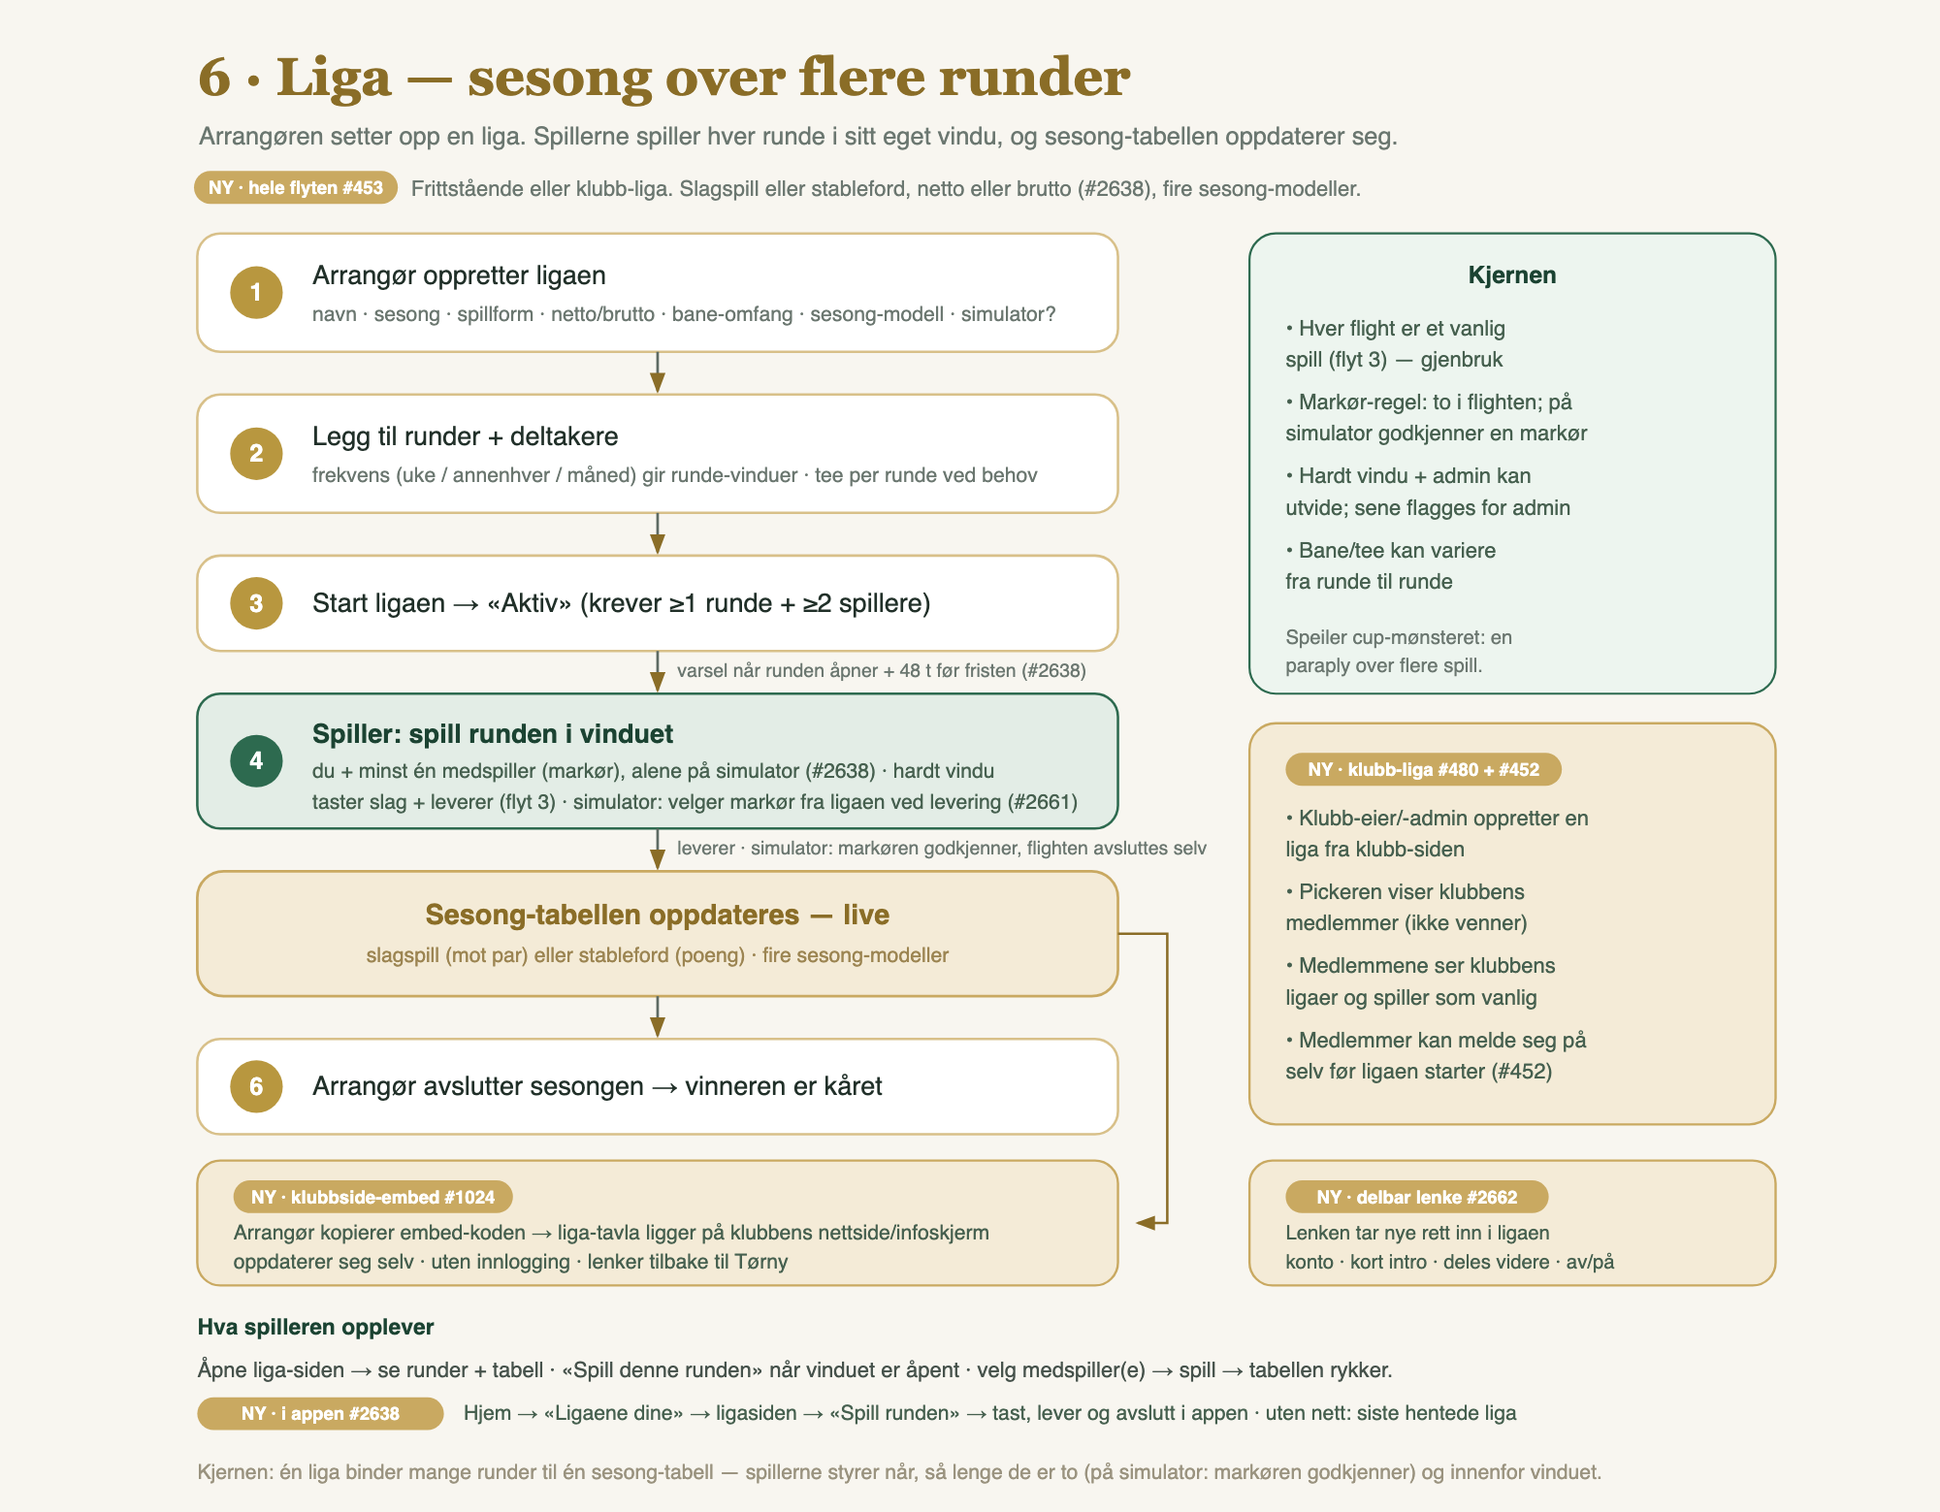
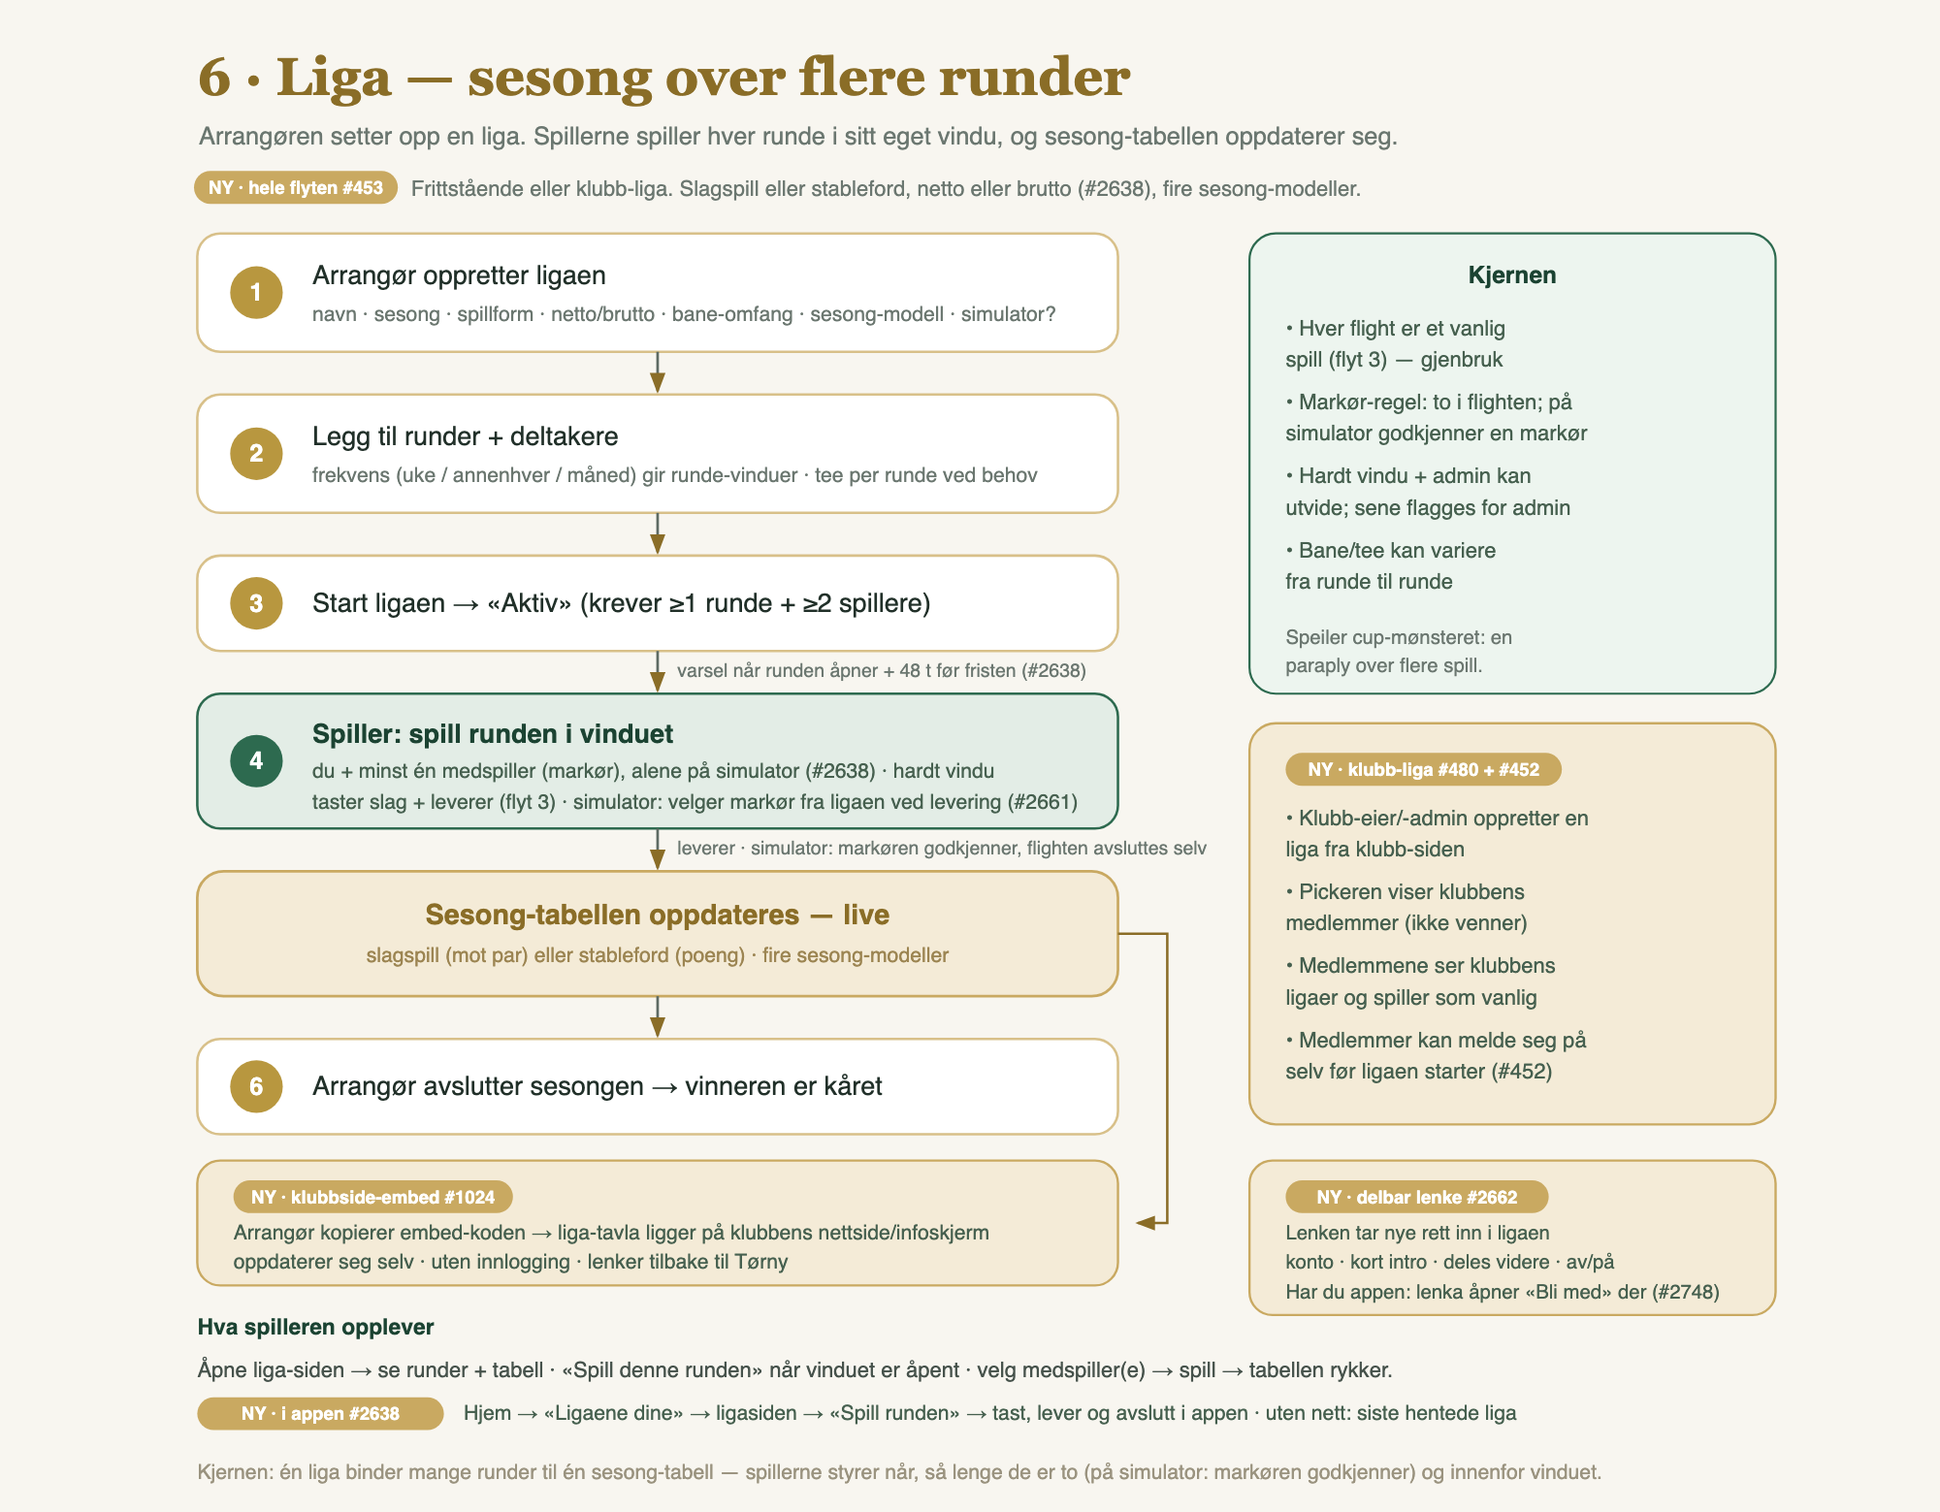
docs(flows): the league link can open the app
User flows, the release runbooks and flow 6 say what PR 1 of #2748 does: which
paths and hosts the store build claims, that `www` must answer 200 before a build
goes out, and that iPhone stays on the web page until AASA lets the path through.

Refs #2748

Changed region(s): [[0.62, 0.8313, 0.93, 0.8929]]

diff --git a/docs/native/app-store-release.md b/docs/native/app-store-release.md
@@ -20,7 +20,7 @@ Android-bygget (signert AAB, bevis og spike-funn): `play-store-release.md`.
 | Supabase | staging, fra `native/app/.env.local` | prod, fra repo-rotas `.env.local` — kun via skriptet |
 | Web | `http://localhost:<port>` under staging-verify | `https://tornygolf.no`, nøyaktig |
 | `ITSAppUsesNonExemptEncryption` | — | `false` (som skallet) |
-| Associated domains | — | `applinks:tornygolf.no`, men AASA-fila slipper bare venne-lenka gjennom (#2627). Alle andre lenker åpnes i Safari, der sesjonen finnes |
+| Associated domains | — | `applinks:tornygolf.no` og `applinks:www.tornygolf.no`, men AASA-fila slipper bare venne-lenka gjennom (#2627). Alle andre lenker åpnes i Safari, der sesjonen finnes |
 | På telefonen | står ved siden av butikk-appen | erstatter skallet (samme id) |
 
 `native/app/app.config.ts` legger varianten over `app.json`; `app.json` er dev-fasiten og
@@ -156,7 +156,7 @@ stopper opplastingen.
 | | **FORBY** verdier fra appens egne `.env`-filer (#2208): hver `EXPO_PUBLIC_*`-verdi i `native/app/.env*` (eller i mappa `TORNY_APP_ENV_DIR` peker på) må ha 0 treff i bundelen. Verdier beviset krever (prod-adressen, web-adressen, anon-nøkkelen fra miljøet) og verdier under 12 tegn hoppes over med en linje om det. Bare fil, nøkkel, lengde og antall treff skrives ut, aldri verdien. Uten `.env`-filer blir det én linje om det, ingen FAIL. |
 | | `http://`: hvert treff må stå på lista over kjente bibliotek-strenger i skriptet (zod sin JSON-Schema-URL, Metros `localhost:8081/` (React Natives `getDevServer`-fallback; det som følger er nabo-strengen), SVG-navnerommet `www.w3.org/2000/svg` fra qrcode, auth-js sin `localhost:9999`, phoenix sin bare `http://`). `localhost` har sin egen regel (raden over). Alt annet → FAIL med kontekst. Phoenix-literalen har ingen vert selv, så det som følger i den pakkede tabellen er nabo-strengen; den godtas når halen ikke er en vert (et ord uten punktum, kolon eller skråstrek, eller en annen URL-literal). |
 | `Info.plist` | `CFBundleIdentifier = no.tornygolf.app`, versjon og build satt, `ITSAppUsesNonExemptEncryption = false`, og norsk språk: `CFBundleDevelopmentRegion = nb` og `nb` i `CFBundleLocalizations` (#2561). |
-| Entitlements (`codesign -d --entitlements`) | **KREV** `aps-environment` = `development` eller `production`, fordi appen har varsler på iOS (#2561). Verdien skrives i bevis-fila. Arkivet kreves ikke å ha `production`: pluginen skriver `development` når `mode` ikke er satt, og beviset kjører på arkivet før eksporten. Om det opplastede bygget har `production`, vises i en lokal eksport (se «Varsler (push) fra appen»). **KREV** `com.apple.developer.associated-domains` = nøyaktig `applinks:tornygolf.no` (venne-lenka, #2627, se «Venne-lenka åpner appen»). Et annet domene, flere verdier eller ingen verdi gir FAIL. Reglene står i `entitlements-proof.sh` og testes uten arkiv (`entitlements-proof.test.js`). |
+| Entitlements (`codesign -d --entitlements`) | **KREV** `aps-environment` = `development` eller `production`, fordi appen har varsler på iOS (#2561). Verdien skrives i bevis-fila. Arkivet kreves ikke å ha `production`: pluginen skriver `development` når `mode` ikke er satt, og beviset kjører på arkivet før eksporten. Om det opplastede bygget har `production`, vises i en lokal eksport (se «Varsler (push) fra appen»). **KREV** `com.apple.developer.associated-domains` = nøyaktig `applinks:tornygolf.no` og `applinks:www.tornygolf.no` (#2627, #2748, se «Venne-lenka åpner appen»). Et annet domene, flere verdier, én av dem alene eller ingen verdi gir FAIL. Reglene står i `entitlements-proof.sh` og testes uten arkiv (`entitlements-proof.test.js`). |
 | Personvern (`Info.plist`, `PrivacyInfo.xcprivacy`) | **KREV** `NSPhotoLibraryAddUsageDescription` i Info.plist (uten teksten skjuler iOS lagre-handlingen i delearket; observert i simulatoren, ingen krasj), og `NSPrivacyAccessedAPICategoryDiskSpace` med grunnkode i app-manifestet når binærene importerer disk-API-er: `statfs`/`fstatfs`, `statvfs`, `getattrlist`-familien, `NSFileSystemFreeSize`/`NSFileSystemSize` og `NSURLVolume*Capacity*` (#2561). Kallerne i dag er SQLite i `expo-sqlite` (`statfs`/`fstatfs` når databasen åpnes) og ExpoFileSystem (ledig plass). Apples required-reason-krav gjelder ([Describing use of required reason API](https://developer.apple.com/documentation/bundleresources/describing-use-of-required-reason-api)), og ITMS-91053 kan komme som e-post etter opplasting; 1.1.0 (3) og 1.2.0 (5) kom gjennom uten, så regelen er forebygging. Alle binærene skannes (hovedfila og hvert rammeverk, navnet fra rammeverkets egen Info.plist); FAIL gir en binær som mangler, et rammeverk uten `CFBundleExecutable`, en `nm -u` som feiler og en tom `nm -u`-utskrift, og en skannefeil gjør DiskSpace påkrevd. Hvor mange binærer som ble skannet, står i PASS-linja. Begge nøklene settes i `app.json` (`ios.infoPlist`, `ios.privacyManifests`). Grunnkoden er `E174.1`, nærmeste godkjente grunn. Upstream `expo-file-system` oppgir både `E174.1` og `85F4.1`; appen tar bare `E174.1` fordi den ikke viser diskplass til brukeren. Expo skriver bare DiskSpace; FileTimestamp, UserDefaults og SystemBootTime kommer fra React Natives `pod install`-aggregering, styrt av `apple.privacyManifestAggregationEnabled` i Podfile.properties.json, som aldri må settes til `false`. Samme rad krever `CFBundleDevelopmentRegion` = `nb` og `nb` i `CFBundleLocalizations` (`app.json`): uten det står Info.plist på `en`, og delearket og tekstfeltene viser engelske systemtekster. Reglene står i `privacy-proof.sh` og testes uten arkiv (`privacy-proof.test.js`). |
 | App-ikonet (#1975) | **Kilden:** `native/app/assets/icon.png` må ha samme sha256 som `native/assets/appstore-1024.png`, og aldri Expo-malens hash (den nevnes ved navn i FAIL-en). **Arkivet:** `Assets.car` må ha `App-Icon-1024x1024@1x.png`, og `.app`-en `AppIcon60x60@2x.png`. To regler fordi `Assets.car` er kompilert — kildens byte finnes ikke igjen der, så arkiv-regelen beviser bare at *et* ikon ble kompilert inn. **`--upload-only` leser dagens kilde**, ikke den arkivet ble bygget fra; i den vanlige kjeden (prebuild → archive → bevis) henger de sammen. |
 
@@ -400,8 +400,9 @@ Fra #2627 åpner QR-koden på bag-taggen og «Del lenken din» (`https://tornygo
 appen på «Bli venn med …» når appen er installert. Alle andre lenker til tornygolf.no åpnes
 fortsatt i Safari, fordi appen ikke kan bære en nett-sesjon fra en lenke.
 
-- **Butikkvarianten** claimer domenet: `ios.associatedDomains: ['applinks:tornygolf.no']` i
-  `app.config.ts`. Dev-varianten har ingen associated domains. Der bevises skjermen med appens
+- **Butikkvarianten** claimer domenene: `ios.associatedDomains` har `applinks:tornygolf.no` og
+  `applinks:www.tornygolf.no` i `app.config.ts` (#2748: `www` er for knappen «Åpne i appen»).
+  Dev-varianten har ingen associated domains. Der bevises skjermen med appens
   eget skjema: `xcrun simctl openurl booted "no.tornygolf.dev://venner/legg-til/<kode>"`.
 - **AASA-fila** på nettet (`app/.well-known/apple-app-site-association/route.ts`) bestemmer
   stiene: bare `/venner/legg-til/*` og `/en/venner/legg-til/*`. Den er det som holder alle andre
@@ -412,7 +413,7 @@ fortsatt i Safari, fordi appen ikke kan bære en nett-sesjon fra en lenke.
   `applinks:tornygolf.no`, så den står trolig på fra før. Automatisk signering slår den på selv
   ved arkivering når den mangler. Feiler arkiveringen med en melding om associated domains eller
   provisioning-profilen, er det denne avkrysningen.
-- **Beviset** krever nøyaktig `applinks:tornygolf.no` i arkivets entitlements (se tabellen
+- **Beviset** krever nøyaktig de to verdiene i arkivets entitlements (se tabellen
   over). Den ekte skanningen med kameraet prøves på en TestFlight-installasjon.
 
 ## Hva som ikke byttes

diff --git a/docs/native/play-store-release.md b/docs/native/play-store-release.md
@@ -98,7 +98,7 @@ slutten, så bevis-fila er ufullstendig.
 | Kilde | Regel |
 |---|---|
 | `base/assets/index.android.bundle` (Hermes) | Alle bundel-reglene fra iOS-beviset, fra samme fil (`bundle-proof.sh`): begge strengtabellene og æ/ø/å-vakta, prod-adressen og `https://tornygolf.no` kreves, staging-adressen, `localhost:3111` og LAN er forbudt, loopback (`127.0.0.1`, `[::1]`, `localhost`) er bare lov som supabase-js sin bare literal (høyst så mange som pakken forklarer, uten skjema eller port), anon-nøkkelen fra miljøet må finnes, ingen verdi fra appens `.env`-filer, og `http://` må stå på lista over kjente bibliotek-strenger (`localhost` har loopback-regelen). Begrunnelsen står i tabellen i `app-store-release.md`. |
-| Manifestet (`base/manifest/AndroidManifest.xml`, protobuf) | `aapt2` fra build-tools leser det etter at skriptet har pakket manifestet og `resources.pb` om til en proto-APK. Ingen bundletool. **KREV** pakke `no.tornygolf.app`, en versionCode (tallet skrives ut) og `targetSdkVersion` ≥ 36. **FORBY** `android:debuggable="true"`. App Links (#2627): et `autoVerify`-intent-filter for `tornygolf.no` er lov **bare** for venne-stiene (`pathPrefix` `/venner/legg-til/` og `/en/venner/legg-til/`), og begge må finnes. En annen sti, et filter uten sti, et underdomene eller en vert som er en ressursreferanse (`@string/…`, kan ikke leses her) gir FAIL. Fail-closed: bare en debuggable-verdi som er tydelig usann eller ikke satt, gir PASS, og et `autoVerify` som ikke er tydelig `false`, regnes som på. Det er motstykket til iOS-regelen om associated domains. App Links-regelen står i `applinks-proof.sh` og testes uten AAB (`applinks-proof.test.js`). |
+| Manifestet (`base/manifest/AndroidManifest.xml`, protobuf) | `aapt2` fra build-tools leser det etter at skriptet har pakket manifestet og `resources.pb` om til en proto-APK. Ingen bundletool. **KREV** pakke `no.tornygolf.app`, en versionCode (tallet skrives ut) og `targetSdkVersion` ≥ 36. **FORBY** `android:debuggable="true"`. App Links (#2627, #2748): et `autoVerify`-intent-filter for `tornygolf.no` og `www.tornygolf.no` er lov **bare** for stiene i `STORE_APP_LINK_PATH_PREFIXES` (`pathPrefix` `/venner/legg-til/` og `/liga/bli-med/`, også under `/en`), og alle må finnes på begge vertene. En annen sti, et filter uten sti, et annet underdomene eller en vert som er en ressursreferanse (`@string/…`, kan ikke leses her) gir FAIL. Fail-closed: bare en debuggable-verdi som er tydelig usann eller ikke satt, gir PASS, og et `autoVerify` som ikke er tydelig `false`, regnes som på. Det er motstykket til iOS-regelen om associated domains. App Links-regelen står i `applinks-proof.sh` og testes uten AAB (`applinks-proof.test.js`). |
 | Tillatelsene | Hele `uses-permission`-lista skrives ut som informasjon. **FAIL** når en tillatelse fra `expo.android.blockedPermissions` i `native/app/app.json` står i manifestet (lista leses derfra, den kopieres ikke inn i skriptet). En `app.json` uten lista, eller et manifest som ikke ble lest, gir også FAIL. |
 | `.so`-filene (16 KB-sider) | Hver `.so` under `base/lib/arm64-v8a/` og `base/lib/x86_64/` må ha LOAD-justering ≥ 16384. FAIL lister filene som ikke har det. En av de to mappene uten `.so` er FAIL. 32-bit (`armeabi-v7a`, `x86`) skrives ut som informasjon, for 16 KB-kravet gjelder bare 64-bit. |
 | Signaturen | AAB-en er signert, og `jarsigner -verify` godtar den. Nøyaktig én signerer, med samme SHA-256 som opplastingsnøkkelen. Avtrykket leses fra `app/.well-known/assetlinks.json/route.ts` (linja etter `// Upload key`), ikke kopiert inn i skriptet. Ikke nøyaktig ett avtrykk der gir FAIL. Debug-nøkkelen eller en annen nøkkel gir også FAIL. |
@@ -128,19 +128,25 @@ telefonen, og den signeres med debug-nøkkelen som før. Den får også
 `android.builder.sdkDownload=false`, så `expo run:android` stopper og navngir en SDK-pakke som
 mangler i stedet for å laste den ned.
 
-## Venne-lenka (App Links)
+## Lenkene (App Links)
 
-Fra #2627 har butikkvarianten et intent-filter med `autoVerify` for venne-lenka
-(`https://tornygolf.no/venner/legg-til/<kode>`, også under `/en`). Android åpner appen fra
-lenka bare når `app/.well-known/assetlinks.json/route.ts` har SHA-256 for nøkkelen appen er
+Fra #2627 og #2748 har butikkvarianten et intent-filter med `autoVerify` for venne-lenka
+(`/venner/legg-til/<kode>`) og ligalenka (`/liga/bli-med/<kode>`), også under `/en`, på
+`tornygolf.no` og `www.tornygolf.no`. Android åpner appen fra lenka bare når
+`app/.well-known/assetlinks.json/route.ts` har SHA-256 for nøkkelen appen er
 signert med. Play signerer appen om med sin egen nøkkel (Play App Signing). Begge avtrykkene
 står i ruta fra 30.10 (#2561): opplastingsnøkkelen under `// Upload key` (beviset leser linja
 etter den og krever nøyaktig ett avtrykk, så bytt den ikke ut) og Play-nøkkelen under
 `// Play app signing key`. Avtrykket står i Play Console under **Test and release → App
 integrity → App signing key certificate → SHA-256**. Etter deploy kontrolleres lenka live
-(`android-twa.md` §assetlinks.json); til den er verifisert, åpner Android 12 og nyere venne-lenka
+(`android-twa.md` §assetlinks.json); til den er verifisert, åpner Android 12 og nyere lenkene
 i nettleseren, som før.
 Android 7–11 spør i stedet om lenka skal åpnes i appen eller i nettleseren.
+
+**`www` må svare før bygget går ut.** Android 7–11 godkjenner lenkene bare når alle vertene i
+filteret er i orden. `https://www.tornygolf.no/.well-known/assetlinks.json` må derfor svare 200
+med JSON, ikke 308. Det krever at `www`-domenet i Vercel står på «serve production» (kommentaren
+i `proxy.ts`); proxyen sender fortsatt alle vanlige sider videre til `tornygolf.no`.
 
 ## Nettsiden samme dag
 

diff --git a/docs/user-flows.md b/docs/user-flows.md
@@ -213,7 +213,7 @@ Lag-flyt (`/signup/[shortId]/team`): kaptein navngir lag + fyller medspiller-slo
 
 **Med appen ute (#2562, `NEXT_PUBLIC_APP_LAUNCH`):** «Hent appen» (`GetTheApp`) står under kvitteringen: forespørselen ved manuell godkjenning, lagpåmeldingen, «Du er påmeldt» og de to bannerne for ventende forespørsel. Åpen påmelding går rett til spill-hjem, der kortet står rett under startbilletten.
 
-**Liga uten klubb (#2662):** `/liga/bli-med/[code]` (auth-valgfri) viser ligaen, antall påmeldte og introkortet «Slik funker ligaen i Tørny». «Bli med» går via innlogging/konto og `/complete-profile` tilbake hit, og så rett inn i ligaen (`league_players`, bekreftet) og videre til `/liga/[id]` med «Hent appen». Arrangøren slår lenken av og på eller lager en ny på ligasiden i Klubbhuset, og deltakerne deler den videre fra ligasiden. Den som kommer inn etter start, kan spille en runde som fortsatt er åpen; stengte runder teller som uteblitt.
+**Liga uten klubb (#2662):** `/liga/bli-med/[code]` (auth-valgfri) viser ligaen, antall påmeldte og introkortet «Slik funker ligaen i Tørny». «Bli med» går via innlogging/konto og `/complete-profile` tilbake hit, og så rett inn i ligaen (`league_players`, bekreftet) og videre til `/liga/[id]` med «Hent appen». Arrangøren slår lenken av og på eller lager en ny på ligasiden i Klubbhuset, og deltakerne deler den videre fra ligasiden. Den som kommer inn etter start, kan spille en runde som fortsatt er åpen; stengte runder teller som uteblitt. Har du appen, åpner lenka skjermen «Bli med i liga» der (#2748, `LeagueJoin`, via `GET`/`POST /api/liga/bli-med/[code]`), med samme regel og samme skriving som nettsiden. Uten innlogging står det i innloggingsbåndet hva som venter, og skjermen kommer rett etter innloggingen. «Bli med» setter deg på lista og åpner ligasiden med «Du er med i ligaen.», og skjermen er borte fra tilbake-veien. Er du alt med, går du rett til ligaen, og ligger den alt bak deg, går du tilbake til den. Ligaen står på Hjem etterpå. Ligasiden i appen har «Del lenka» for deltakere når lenka står på og sesongen ikke er over. På Android åpner lenka appen fra neste bygg. På iPhone åpner den nettsiden til AASA-fila slipper stien gjennom, fordi eldre bygg bare forstår venne-lenka.
 
 ### P3 — Spille en runde
 
